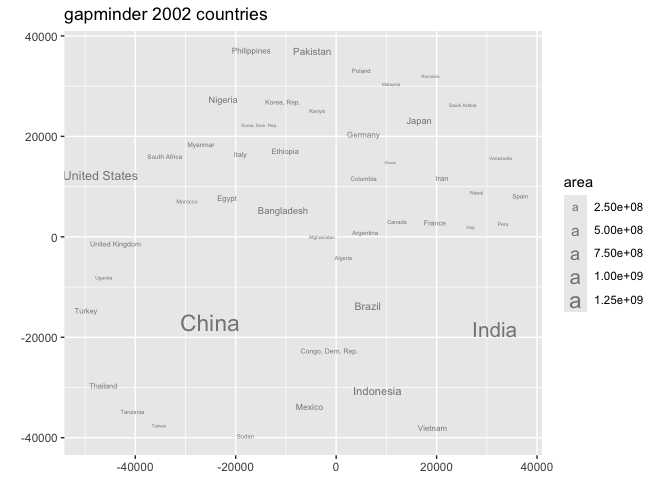
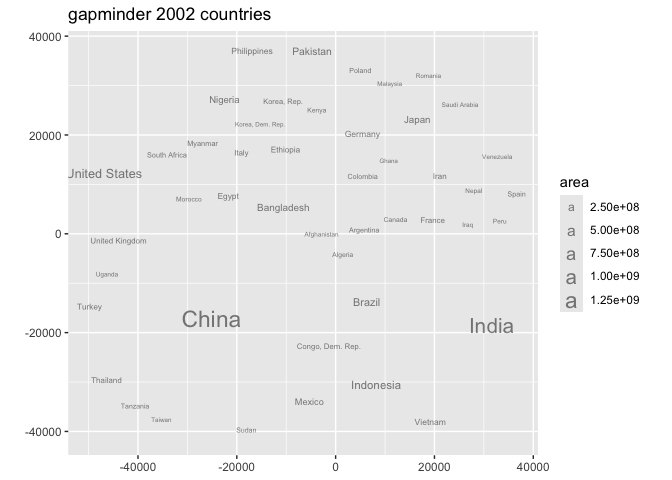
auto_label preparation

diff --git a/README.md b/README.md
@@ -134,7 +134,7 @@ compute_panel_circlepack_center <- function(data, scales){
   # get aes names as they appear in the data
   data_mapped_aes_names <- names(data)[names(data) %in% 
                                          c("id", "fill", "alpha", 
-                                             "colour", "group", "linewidth", 
+                                             "colour", "group", "linewidth", "label",
                                              "linetype", "render")]
   
   if(is.null(data$area)){data$area <- 1}
@@ -161,7 +161,13 @@ compute_panel_circlepack_center <- function(data, scales){
   if(!is.null(data$render)){
     
     data %>% 
-      filter(.data$render) ->
+      mutate(auto_label = ifelse(.data$render, as.character(.data$id), NA)) ->
+    data
+    
+  }else{
+    
+    data %>% 
+      mutate(auto_label = id) ->
     data
     
   }
@@ -192,13 +198,13 @@ filter(continent == "Americas") %>%
 #>   data %>% select(all_of(data_mapped_aes_names))
 #> 
 #> See <https://tidyselect.r-lib.org/reference/faq-external-vector.html>.
-#>           x         y   radius        id      area
-#> 1 -3493.018     0.000 3493.018 Argentina  38331121
-#> 2  1639.564     0.000 1639.564   Bolivia   8445134
-#> 3  2732.774 -9142.026 7567.594    Brazil 179914212
-#> 4  1150.752  4801.407 3186.661    Canada  31902268
-#> 5  5273.817  1302.381 2221.005     Chile  15497046
-#> 6 10562.330 -1160.651 3612.938  Colombia  41008227
+#>           x         y   radius        id      area auto_label
+#> 1 -3493.018     0.000 3493.018 Argentina  38331121  Argentina
+#> 2  1639.564     0.000 1639.564   Bolivia   8445134    Bolivia
+#> 3  2732.774 -9142.026 7567.594    Brazil 179914212     Brazil
+#> 4  1150.752  4801.407 3186.661    Canada  31902268     Canada
+#> 5  5273.817  1302.381 2221.005     Chile  15497046      Chile
+#> 6 10562.330 -1160.651 3612.938  Colombia  41008227   Colombia
 ```
 
 ``` r
@@ -208,12 +214,12 @@ gapminder::gapminder %>%
   select(id = continent) %>% 
   compute_panel_circlepack_center()
 #> Warning: Unknown or uninitialised column: `area`.
-#>            x         y    radius       id area
-#> 1 -4.0684289  0.000000 4.0684289   Africa   52
-#> 2  2.8209479  0.000000 2.8209479 Americas   25
-#> 3  0.5868621 -5.635277 3.2410224     Asia   33
-#> 4  0.5595510  5.461472 3.0901936   Europe   30
-#> 5  3.8910939  3.456984 0.7978846  Oceania    2
+#>            x         y    radius       id area auto_label
+#> 1 -4.0684289  0.000000 4.0684289   Africa   52     Africa
+#> 2  2.8209479  0.000000 2.8209479 Americas   25   Americas
+#> 3  0.5868621 -5.635277 3.2410224     Asia   33       Asia
+#> 4  0.5595510  5.461472 3.0901936   Europe   30     Europe
+#> 5  3.8910939  3.456984 0.7978846  Oceania    2    Oceania
 ```
 
 ``` r
@@ -224,8 +230,13 @@ gapminder::gapminder %>%
   select(id = continent, render) %>% 
   compute_panel_circlepack_center()
 #> Warning: Unknown or uninitialised column: `area`.
-#>           x         y    radius       id render area
-#> 1 0.1077182 -2.005231 0.5641896 Americas   TRUE    1
+#>            x         y    radius       id render area auto_label
+#> 1 -4.0684289  0.000000 4.0684289   Africa  FALSE   52       <NA>
+#> 2  2.7639532  0.000000 2.7639532 Americas  FALSE   24       <NA>
+#> 3  0.1077182 -2.005231 0.5641896 Americas   TRUE    1   Americas
+#> 4  0.9345431 -5.719527 3.2410224     Asia  FALSE   33       <NA>
+#> 5 -5.2531607 -7.059907 3.0901936   Europe  FALSE   30       <NA>
+#> 6  0.1523365  2.422013 0.7978846  Oceania  FALSE    2       <NA>
 ```
 
 ### Step 2 and 3 ggproto and geom
@@ -237,7 +248,7 @@ StatCirclepackcenter <- ggplot2::ggproto(`_class` = "StatCirclepackcenter",
                                   compute_panel = compute_panel_circlepack_center,
                                   default_aes = ggplot2::aes(group = after_stat(id),
                                                              size = after_stat(area),
-                                                             label = after_stat(id))
+                                                             label = after_stat(auto_label))
                                   )
 
 
@@ -308,6 +319,8 @@ filter(year == 2002) %>%
 
 last_plot() + 
   aes(render = pop > 20000000)
+#> Warning: Removed 95 rows containing missing values or values outside the scale range
+#> (`geom_text()`).
 ```
 
 <img src="man/figures/README-unnamed-chunk-4-2.png" width="100%" />
@@ -329,7 +342,7 @@ last_plot() +
 #' @examples
 compute_panel_circlepack <- function(data, scales, npoints = 50){
 
-  data_mapped_aes_names <- names(data)[names(data) %in% c("id", "fill", "alpha", 
+  data_mapped_aes_names <- names(data)[names(data) %in% c("id", "fill", "alpha", "label",
                                              "colour", "group", "linewidth", 
                                              "linetype")]
   
@@ -560,6 +573,8 @@ filter(year == 2002) %>%
   coord_equal() + 
   aes(fill = continent) + 
   aes(render = pop > 20000000)
+#> Warning: Removed 95 rows containing missing values or values outside the scale range
+#> (`geom_text()`).
 ```
 
 <img src="man/figures/README-unnamed-chunk-6-13.png" width="100%" />
@@ -579,6 +594,8 @@ filter(year == 2002) %>%
   coord_equal() + 
   aes(fill = continent) + 
   aes(render = pop > 20000000)
+#> Warning: Removed 95 rows containing missing values or values outside the scale range
+#> (`geom_text_repel()`).
 ```
 
 <img src="man/figures/README-unnamed-chunk-6-14.png" width="100%" />
@@ -649,10 +666,10 @@ layer_data(i = 2)
 #> All aesthetics have length 1, but the data has 2201 rows.
 #> ℹ Please consider using `annotate()` or provide this layer with data containing
 #>   a single row.
-#>       size label group PANEL  id         x y   radius area colour angle hjust
-#> 1 4.535534  2201   all     1 all -26.46885 0 26.46885 2201 gray50     0   0.5
-#>   vjust alpha family fontface lineheight
-#> 1   0.5    NA               1        1.2
+#>       size label group PANEL  id         x y   radius area auto_label colour
+#> 1 4.535534  2201   all     1 all -26.46885 0 26.46885 2201        all gray50
+#>   angle hjust vjust alpha family fontface lineheight
+#> 1     0   0.5   0.5    NA               1        1.2
 ```
 
 ``` r
